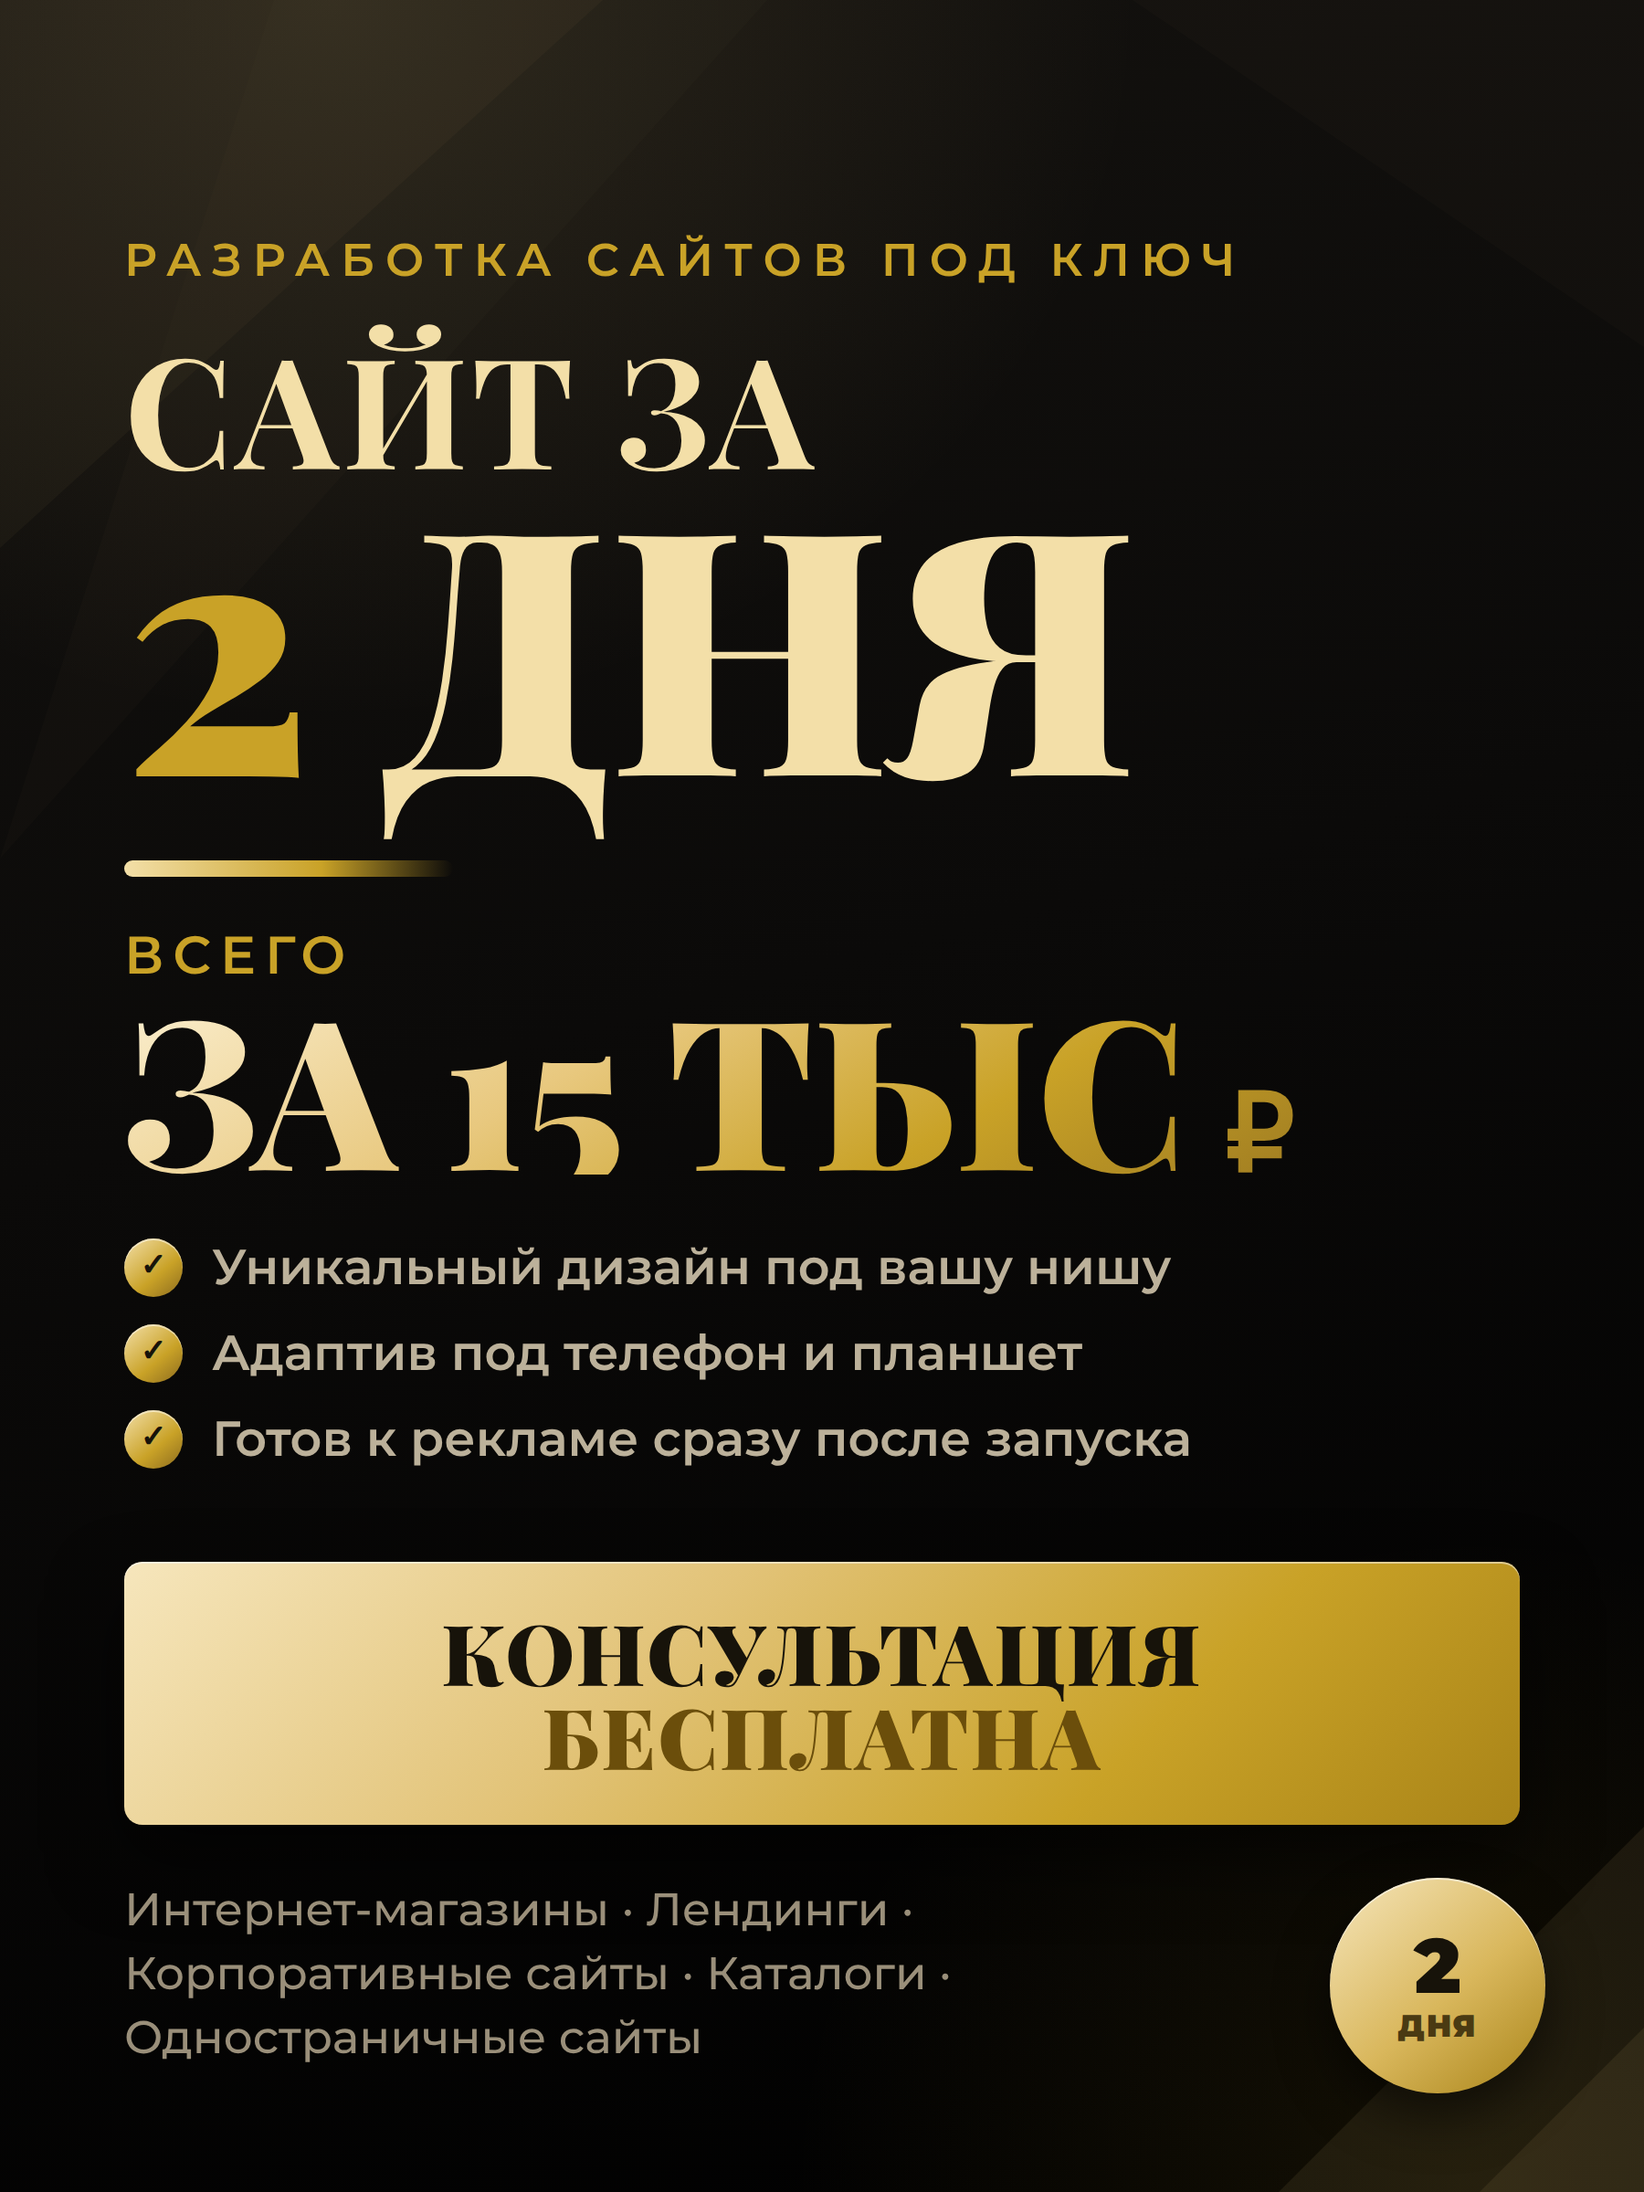
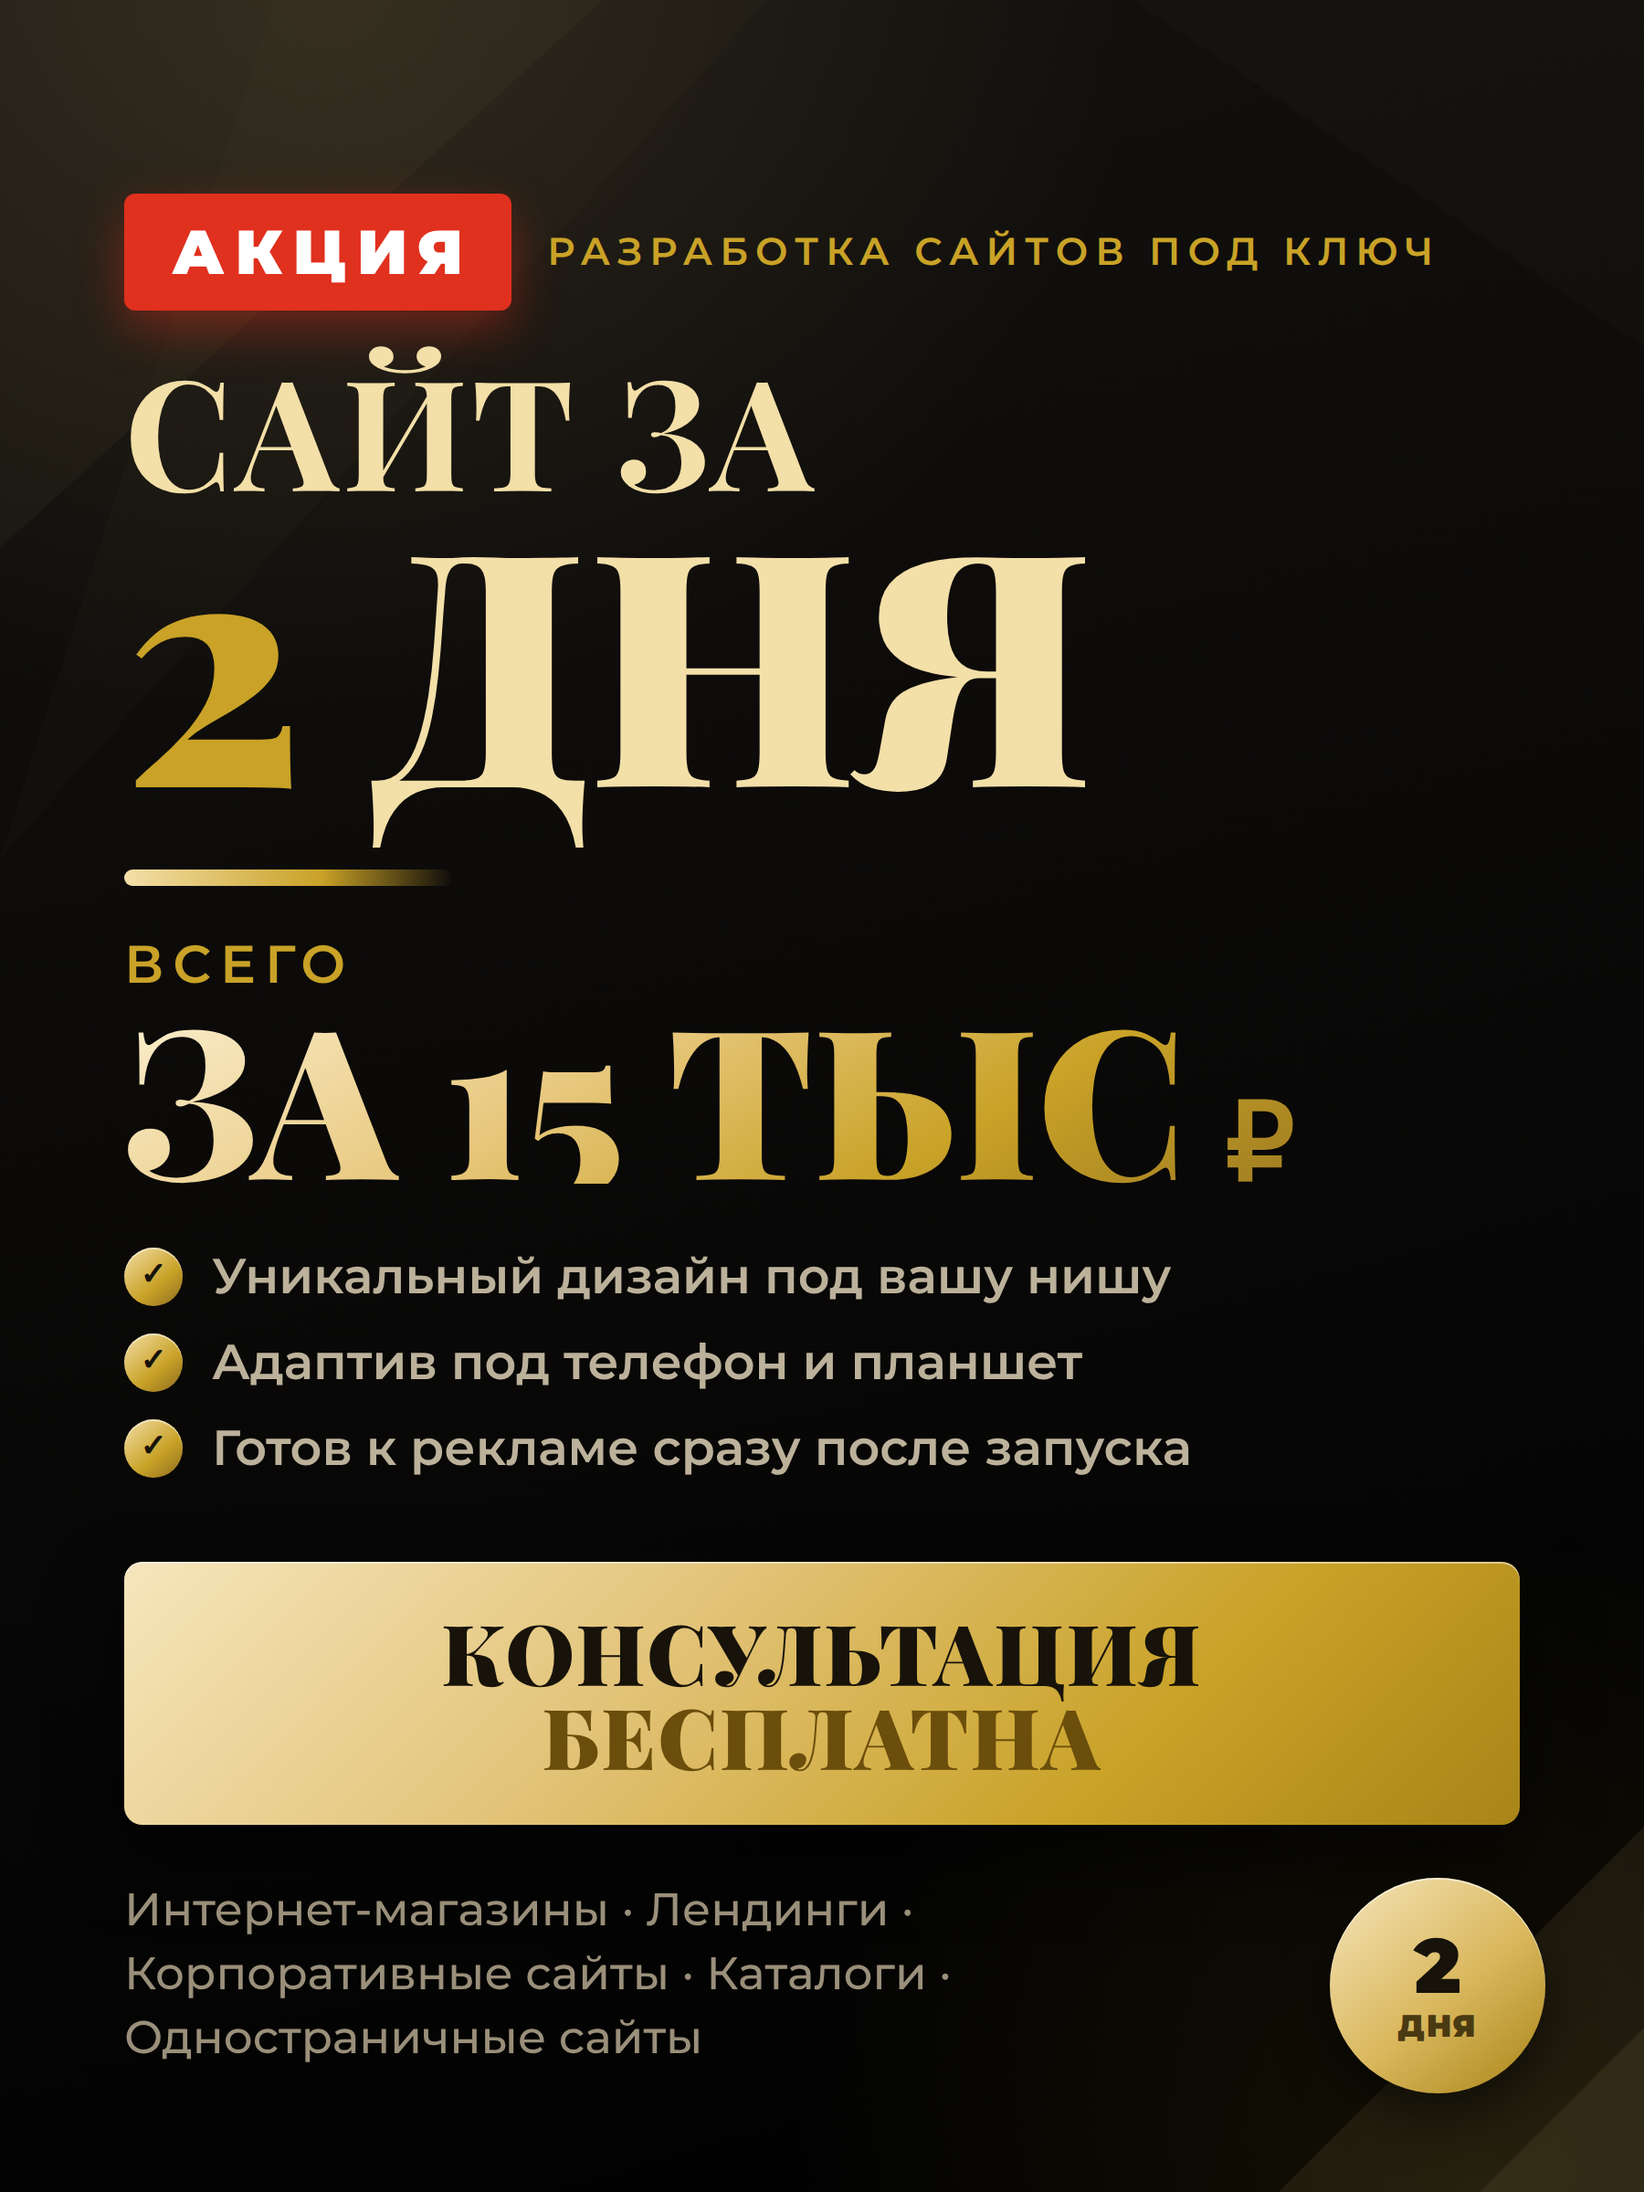
Put a red АКЦИЯ badge on the cover
A red label with white type at the top of slide 01, paired on one line
with the kicker so the header keeps its height. Red in both themes — on
the dark one it stands apart from the gold rather than blending in.

Claude-Session: https://claude.ai/code/session_017LcbuXHN7h3FiT7QLFYxQe

diff --git a/avito/styles.css b/avito/styles.css
@@ -143,9 +143,25 @@ p.small { font-size: 26px; line-height: 1.45; }
   text-transform: uppercase;
 }
 
+/* красный ярлык «Акция» */
+.topline { display: flex; align-items: center; gap: 20px; }
+.topline .eyebrow { font-size: 21px; letter-spacing: 4px; }
+.sale {
+  flex: 0 0 auto;
+  background: #E0301E;
+  color: #fff;
+  font-size: 34px;
+  font-weight: 900;
+  letter-spacing: 6px;
+  text-transform: uppercase;
+  padding: 11px 20px 11px 26px;
+  border-radius: 6px;
+  box-shadow: 0 10px 24px rgba(170,30,12,.35);
+}
+
 /* гигантский срок на обложке */
 .hero-num {
-  font-size: 186px;
+  font-size: 178px;
   font-weight: 900;
   line-height: .88;
   letter-spacing: -6px;

diff --git a/avito/posters.html b/avito/posters.html
@@ -17,8 +17,11 @@
   <svg class="corner" viewBox="0 0 320 320"><polygon points="320,120 320,320 120,320" opacity=".5"/><polygon points="320,230 320,320 230,320" opacity=".9"/></svg>
 
   <div class="content">
-    <div style="height:56px"></div>
-    <div class="eyebrow">Разработка сайтов под ключ</div>
+    <div style="height:34px"></div>
+    <div class="topline">
+      <span class="sale">АКЦИЯ</span>
+      <span class="eyebrow">Разработка сайтов под ключ</span>
+    </div>
 
     <h1 style="margin-top:22px;font-size:84px">Сайт за</h1>
     <div class="hero-num"><span class="hl">2</span> дня</div>

diff --git a/avito/styles-lux.css b/avito/styles-lux.css
@@ -139,6 +139,8 @@ p.lead { font-weight: 500; color: #C7BCA5; }
 .thumbs div { background: linear-gradient(140deg, #4A3F22, #2A2415); }
 
 /* обложка */
+.sale { background: #E0301E; color: #fff; box-shadow: 0 10px 26px rgba(224,48,30,.4); }
+
 .hero-num {
   font-family: 'Playfair Display', 'Liberation Serif', serif;
   font-weight: 900;
